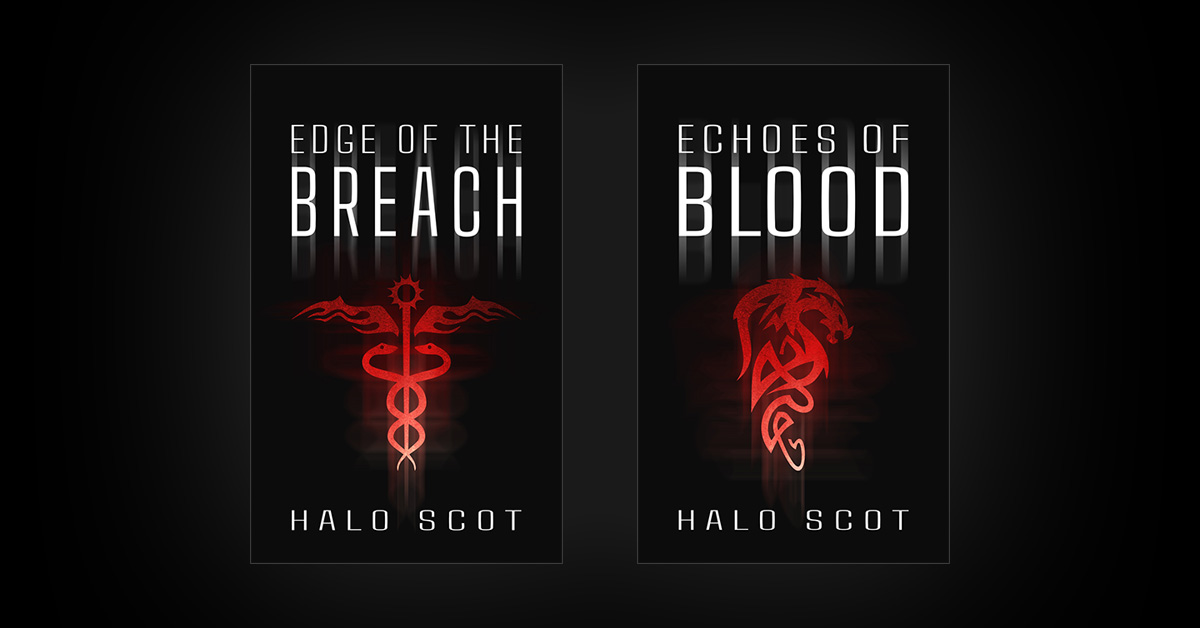
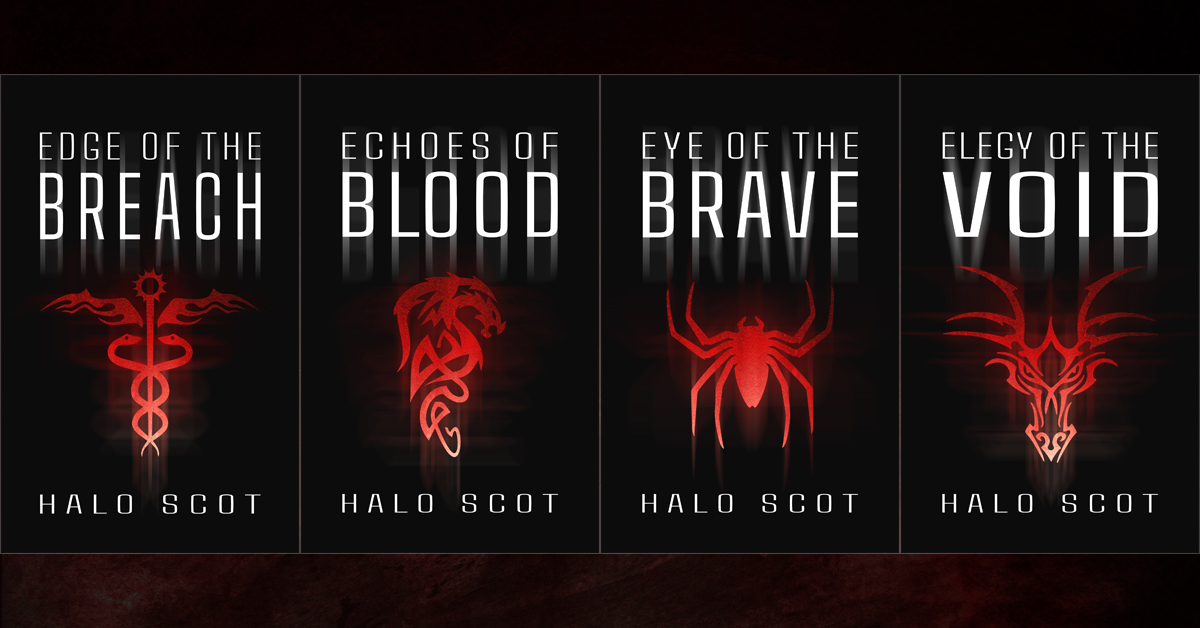
Series Updates

diff --git a/index.html b/index.html
@@ -52,24 +52,15 @@
                     <p class="promotion-buttons"><a href="https://mybook.to/RiftCycle" target="_blank" class="button white">Order Now</a><a href="https://www.youtube.com/playlist?list=PLOo-wH1VQ4PFAPEGjDLxBVA3L5W5dgBto" class="button white" target="_blank">Book Trailers</a></p>
                 </div>
 
+                <a class="promotion-covers" href="https://mybook.to/RiftCycle" target="_blank"><img src="img/covers.jpg" alt="Covers" /></a>
+
                 <div class="welcome" id="miniSpiel">
                     <h1 style="margin-bottom:0;">EDGE OF THE <span class="blue-color">BREACH</span></h1>
                     <p><strong class="blue-color">Book 1 of the Rift Cycle</strong></p>
                     <p><a class="button" href="https://mybook.to/EdgeOfTheBreach" target="_blank"><i class="fab fa-amazon"></i>&nbsp;Amazon</a> <a class="button" href="https://www.goodreads.com/book/show/49211278-edge-of-the-breach" target="_blank"><i class="fab fa-goodreads-g"></i>&nbsp;Goodreads</a></p>
                     <p><strong>We all become monsters at the edge of the breach.</strong>
                         <br />In a post-apocalyptic world where season of birth determines power, interrealm war beckons two lost and fated souls.</p>
-                </div>
-
-                <div class="welcome" id="miniSpiel2">
-                    <h1 style="margin-bottom:0;">ECHOES OF <span class="blue-color">BLOOD</span></h1>
-                    <p><strong class="blue-color">Book 2 of the Rift Cycle</strong></p>
-                    <p><a class="button" href="https://mybook.to/EchoesOfBlood" target="_blank"><i class="fab fa-amazon"></i>&nbsp;Amazon</a> <a class="button" href="https://www.goodreads.com/book/show/55141547-echoes-of-blood" target="_blank"><i class="fab fa-goodreads-g"></i>&nbsp;Goodreads</a></p>
-                    <p><strong>Let&rsquo;s play a game.</strong>
-                        <br />This isn&rsquo;t <em>revenge</em> anymore. This is a <em>revolution</em>.</p>
-                </div>
-
-                <div class="welcome">
-                    <p><strong>Amazon <strong class="blue-color">#1</strong> Top Free Bestseller in 8 Categories:</strong>
+                    <!-- <p><strong>Amazon <strong class="blue-color">#1</strong> Top Free Bestseller in 8 Categories:</strong>
                         <br />Dark Fantasy Horror
                         <br />Dystopian Science Fiction <small>(Kindle Store)</small>
                         <br />Post-Apocalyptic Science Fiction <small>(Kindle Store)</small>
@@ -78,7 +69,36 @@
                         <br />LGBT Science Fiction  <small>(Kindle Store)</small>
                         <br />LGBT Fantasy  <small>(Kindle Store)</small>
                         <br />LGBT Horror eBooks
-                    </p>
+                    </p> -->
+                </div>
+
+                <div class="welcome" id="miniSpiel2">
+                    <h1 style="margin-bottom:0;">ECHOES OF <span class="blue-color">BLOOD</span></h1>
+                    <p><strong class="blue-color">Book 2 of the Rift Cycle</strong></p>
+                    <p><a class="button" href="https://mybook.to/EchoesOfBlood" target="_blank"><i class="fab fa-amazon"></i>&nbsp;Amazon</a> <a class="button" href="https://www.goodreads.com/book/show/55141547-echoes-of-blood" target="_blank"><i class="fab fa-goodreads-g"></i>&nbsp;Goodreads</a></p>
+                    <p><strong>Let&rsquo;s play a game.</strong>
+                        <br />This isn&rsquo;t <em>revenge</em> anymore.
+                        <br class="hide-desktop" />This is a <em>revolution</em>.</p>
+                </div>
+
+                <div class="welcome" id="miniSpiel3">
+                    <h1 style="margin-bottom:0;">EYE OF THE <span class="blue-color">BRAVE</span></h1>
+                    <p><strong class="blue-color">Book 3 of the Rift Cycle</strong></p>
+                    <p class="blue-color">COMING SOON</p>
+                    <!-- <p><a class="button" href="#" target="_blank"><i class="fab fa-amazon"></i>&nbsp;Amazon</a> <a class="button" href="#" target="_blank"><i class="fab fa-goodreads-g"></i>&nbsp;Goodreads</a></p> -->
+                    <p><strong>One of these games, you&rsquo;re going to lose.</strong>
+                        <br />We aren’t meant to live <em>forever</em>,
+                        <br class="hide-desktop" />but we are meant to die <em>free</em>.</p>
+                </div>
+
+                <div class="welcome" id="miniSpiel4">
+                    <h1 style="margin-bottom:0;">ELEGY OF THE <span class="blue-color">VOID</span></h1>
+                    <p><strong class="blue-color">Book 4 of the Rift Cycle</strong></p>
+                    <p class="blue-color">COMING SOON</p>
+                    <!-- <p><a class="button" href="#" target="_blank"><i class="fab fa-amazon"></i>&nbsp;Amazon</a> <a class="button" href="#" target="_blank"><i class="fab fa-goodreads-g"></i>&nbsp;Goodreads</a></p> -->
+                    <p><strong>This war ends now.</strong>
+                        <br />If you can&rsquo;t <em>break</em> cycles,
+                        <br class="hide-desktop" /><em>change</em> them.</p>
                 </div>
 
                 <h2>Swag</h2>

diff --git a/books/index.html b/books/index.html
@@ -50,6 +50,8 @@
                         <br class="hide-desktop" />Dark, thrilling, brutal, romantic, riveting</p>
                     <p class="promotion-buttons"><a href="https://mybook.to/RiftCycle" target="_blank" class="button white">Order Now</a><a href="https://www.youtube.com/playlist?list=PLOo-wH1VQ4PFAPEGjDLxBVA3L5W5dgBto" class="button white" target="_blank">Book Trailers</a></p>
                 </div>
+                
+                <a class="promotion-covers" href="https://mybook.to/RiftCycle" target="_blank"><img src="../img/covers.jpg" alt="Covers" /></a>
 
                 <div class="books">
                     <div class="welcome" id="miniSpiel">
@@ -64,21 +66,23 @@
                         <p><a class="button" href="https://mybook.to/EchoesOfBlood" target="_blank"><i class="fab fa-amazon"></i>&nbsp;Amazon</a> <a class="button" href="https://www.goodreads.com/book/show/55141547-echoes-of-blood" target="_blank"><i class="fab fa-goodreads-g"></i>&nbsp;Goodreads</a></p>
                     </div>
                 </div>
-                
-                <div class="welcome">
-                    <p><strong>Amazon <strong class="blue-color">#1</strong> Top Free Bestseller in 8 Categories:</strong>
-                        <br />Dark Fantasy Horror
-                        <br />Dystopian Science Fiction <small>(Kindle Store)</small>
-                        <br />Post-Apocalyptic Science Fiction <small>(Kindle Store)</small>
-                        <br />Psychological Thrillers <small>(Kindle Store)</small>
-                        <br />Psychological Fiction  <small>(Kindle Store)</small>
-                        <br />LGBT Science Fiction  <small>(Kindle Store)</small>
-                        <br />LGBT Fantasy  <small>(Kindle Store)</small>
-                        <br />LGBT Horror eBooks
-                    </p>
+                <div class="books">
+                    <div class="welcome" id="miniSpiel">
+                        <h1 style="margin-bottom:0;">EYE OF THE <span class="blue-color">BRAVE</span></h1>
+                        <p><strong class="blue-color">Book 3 of the Rift Cycle</strong></p>
+                        <p class="blue-color">COMING SOON</p>
+                        <!-- <p><a class="button" href="#" target="_blank"><i class="fab fa-amazon"></i>&nbsp;Amazon</a> <a class="button" href="#" target="_blank"><i class="fab fa-goodreads-g"></i>&nbsp;Goodreads</a></p> -->
+                    </div>
+
+                    <div class="welcome" id="miniSpiel2">
+                        <h1 style="margin-bottom:0;">ELEGY OF THE <span class="blue-color">VOID</span></h1>
+                        <p><strong class="blue-color">Book 4 of the Rift Cycle</strong></p>
+                        <p class="blue-color">COMING SOON</p>
+                        <!-- <p><a class="button" href="#" target="_blank"><i class="fab fa-amazon"></i>&nbsp;Amazon</a> <a class="button" href="#" target="_blank"><i class="fab fa-goodreads-g"></i>&nbsp;Goodreads</a></p> -->
+                    </div>
                 </div>
 
-                <h2>Objective</h2>
+                <h2 style="margin-top: 10px;">Objective</h2>
                 <p>The Rift Cycle is a grimdark, science-fantasy series with elements of psychological horror and LGBTQIA+ romance. It seeks to normalize all aspects of the human experience and aims to break stigmas surrounding mental illness, substance abuse, grief, and sexual orientation while exploring the themes of forgiveness, redemption, and persistence in the face of hardship.</p>
 
                 <hr id="contentWarning" />

diff --git a/css/style.css b/css/style.css
@@ -259,11 +259,11 @@ iframe {
 
 .hero {
     position: relative;
-    height: 320px;
+    height: 250px;
     background-color: black;
-    background-image: url('../img/hero-min.jpg');
+    background-image: url('../img/symbols.jpg');
     background-repeat: no-repeat;
-    background-size: 400px auto;
+    background-size: contain;
     background-position: center center;
 }
 
@@ -271,10 +271,12 @@ iframe {
     position: absolute;
     left: 0;
     right: 0;
-    top: 50%;
+    bottom: 20px;
+    text-align: center;
+    /* top: 50%;
     -webkit-transform: translateY(-50%);
     -ms-transform: translateY(-50%);
-    transform: translateY(-50%);
+    transform: translateY(-50%); */
     text-align: center;
     font-size: 22px;
 }
@@ -651,6 +653,16 @@ iframe {
     font-weight: inherit;
 }
 
+.promotion-covers {
+    border: 0 !important;
+}
+
+.promotion-covers img {
+    display: block;
+    max-width: 100%;
+    margin: 0 auto 30px;
+}
+
 
 /* PRESS */
 
@@ -758,6 +770,12 @@ iframe {
     .board-wrapper {
         padding-top: 60%;
     }
+    .hero {
+        height: 200px;
+    }
+    .hero-content {
+        bottom: 12px;
+    }
 }
 
 @media only screen and (max-width: 480px) {
@@ -768,5 +786,11 @@ iframe {
     }
     .promotion .button {
         width: 100%;
+    }
+    .hero {
+        height: 150px;
+    }
+    .hero-content {
+        bottom: 5px;
     }
 }
